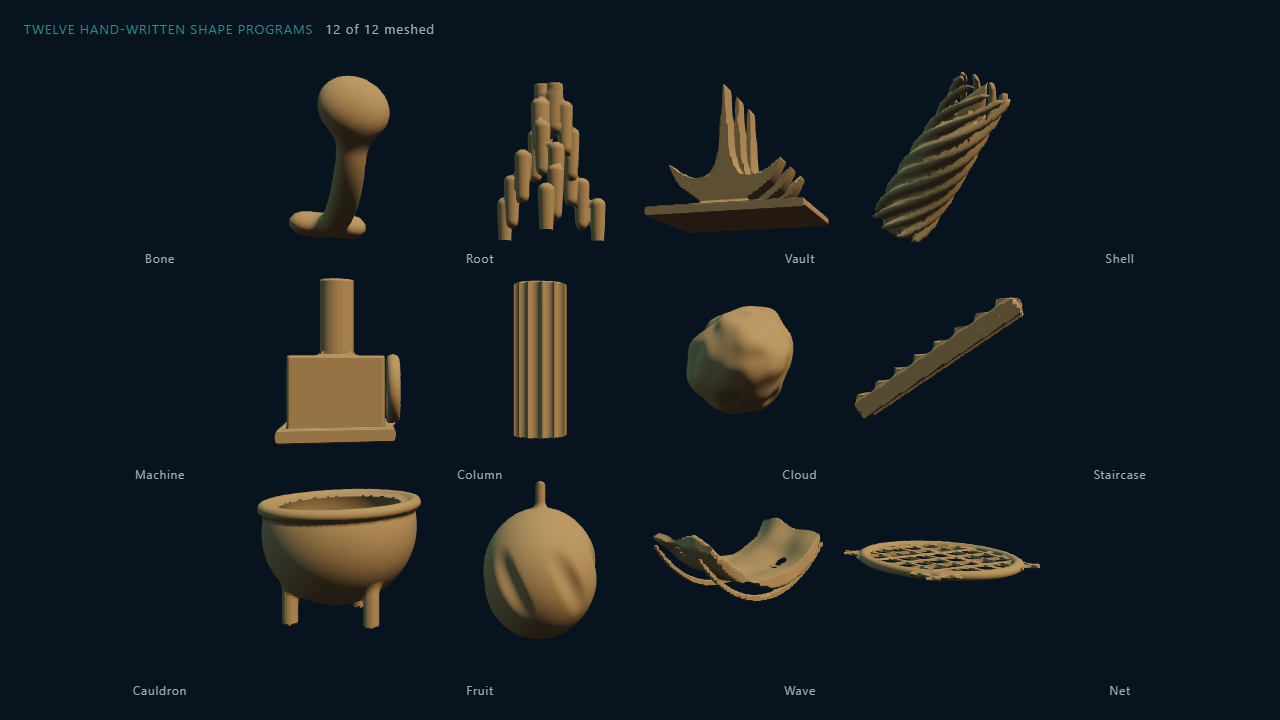
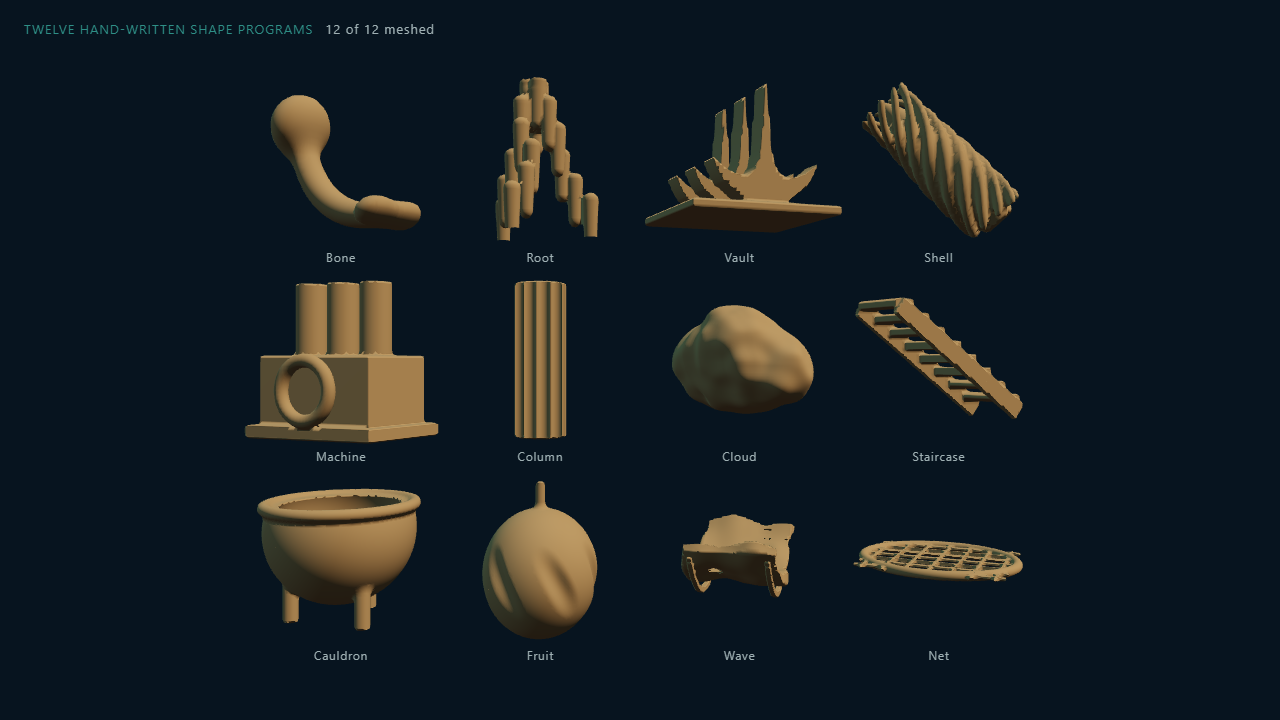
fix(gallery): seat labels on the grid the camera actually draws
Popisky stály na ctyrech dilech sirky okna (320 px), kusy 199 px od sebe:
kost vysla bliz k popisku Root nez ke svemu. Naměřeno 139,8-150,9 px u
krajnich sloupcu, tedy tri ctvrtiny bunky. Index bunky pritom sedel, takze
obe dosavadni aserce byly zelene - vada byla jen v pixelech.

Obdelnik mrizky se ted promita tou kamerou, do ktere se kresli. Novy test
prideli kazdy dost svetly pixel platna nejblizsimu popisku a soudi teziste
po sloupcich (Voronoi nad dvanacti body), takze nezna ani rozteč bunek ani
kameru. Po oprave je nejvetsi posun 22,3 px proti toleranci 45.

Cisla v gallery-page-cost.json se prepsala novym merenim teze stranky.

diff --git a/src/app/gallery/page.tsx b/src/app/gallery/page.tsx
@@ -30,9 +30,9 @@
  * mimo hashovaný stav a mimo replay cestu, přesně jak `CLAUDE.md` žádá.
  */
 
-import { Canvas, useFrame } from '@react-three/fiber';
+import { Canvas, useFrame, useThree } from '@react-three/fiber';
 import { useCallback, useEffect, useMemo, useRef, useState } from 'react';
-import { BufferAttribute, BufferGeometry, type Group } from 'three';
+import { BufferAttribute, BufferGeometry, Vector3, type Group } from 'three';
 
 import { UI_TOKENS } from '@/kit';
 import { createMeshClient, type MeshResult } from '@/shape/mesh-client';
@@ -47,6 +47,20 @@ const COLUMNS = 4;
 
 /** Rozteč buněk. Tvar se do buňky zmenší, takže je to i jeho největší rozměr. */
 const CELL = 3.4;
+
+/** Řádků v mřížce. Dvanáct kusů na čtyřech sloupcích dá tři. */
+const ROWS = Math.ceil(GALLERY.length / COLUMNS);
+
+/**
+ * O kolik pixelů popisky spadnou pod svou buňku.
+ *
+ * Tvar se do buňky zmenší na 0,78 její strany, jenže zmenšuje se podle
+ * **největšího** rozměru — kdo je široký a nízký jako `machine`, sáhne na
+ * spodní hranu buňky téměř celou výškou a popisek se mu opře o podstavec.
+ * Deset pixelů je mezera, ne posun: vodorovné sazení, o které bráně jde,
+ * se tím nemění.
+ */
+const LABEL_DROP = 10;
 
 /** Otáček za vteřinu. Pomalu — brána se soudí okem, ne stopkami. */
 const TURNS_PER_SECOND = 0.06;
@@ -80,7 +94,6 @@ function placement(mesh: MeshResult, index: number) {
     mesh.bounds.max[2] - mesh.bounds.min[2],
     1e-6,
   );
-  const rows = Math.ceil(GALLERY.length / COLUMNS);
 
   return {
     scale: (CELL * 0.78) / span,
@@ -91,10 +104,71 @@ function placement(mesh: MeshResult, index: number) {
     ] as const,
     cell: [
       (index % COLUMNS) * CELL - ((COLUMNS - 1) * CELL) / 2,
-      ((rows - 1) * CELL) / 2 - Math.floor(index / COLUMNS) * CELL,
+      ((ROWS - 1) * CELL) / 2 - Math.floor(index / COLUMNS) * CELL,
       0,
     ] as const,
   };
+}
+
+/** Obdélník mřížky na obrazovce, v pixelech plátna. */
+interface Frame {
+  readonly left: number;
+  readonly top: number;
+  readonly width: number;
+  readonly height: number;
+}
+
+/**
+ * Kam mřížka kusů doopravdy dopadla — a tím i kam patří popisky.
+ *
+ * **Popisky se do plátna netrefovaly a nikdo si toho nevšiml, protože se to
+ * nedalo poznat z indexu.** HTML mřížka stála na čtyřech dílech šířky okna
+ * (320 px při 1280), kdežto kusy stojí 3,4 světové jednotky od sebe, což při
+ * kameře na `z = 16` a zorném úhlu 42° dělá 199 px. Kost tak vyšla blíž
+ * k popisku `Root` než ke svému vlastnímu — přesně to, co brána K1 potřebuje
+ * mít jisté, protože člověk soudí tvar podle jména pod ním.
+ *
+ * Obdélník se **nedopočítává vedle scény**, ale promítá skutečnou kamerou, do
+ * které se kreslí. Vlastní vzorec pro „kolik pixelů je jednotka" by byl druhá
+ * kopie projekce a rozešel by se s ní při první změně objektivu nebo vzdálenosti.
+ *
+ * Počítá se v `useFrame`, ne v efektu: po změně velikosti okna R3F přepočítá
+ * matici kamery až ve smyčce, takže efekt by promítal ještě tou starou.
+ */
+function LabelFrame({ onFrame }: { readonly onFrame: (frame: Frame) => void }): null {
+  const last = useRef<Frame | null>(null);
+
+  useFrame(({ camera, size }) => {
+    const halfWidth = (COLUMNS * CELL) / 2;
+    const halfHeight = (ROWS * CELL) / 2;
+    const topLeft = new Vector3(-halfWidth, halfHeight, 0).project(camera);
+    const bottomRight = new Vector3(halfWidth, -halfHeight, 0).project(camera);
+    const left = ((topLeft.x + 1) / 2) * size.width;
+    const top = ((1 - topLeft.y) / 2) * size.height;
+    const frame: Frame = {
+      left,
+      top,
+      width: ((bottomRight.x + 1) / 2) * size.width - left,
+      height: ((1 - bottomRight.y) / 2) * size.height - top,
+    };
+
+    // Půl pixelu: pod tím se popisek nemá kam pohnout a přepis stavu by jel
+    // každý snímek.
+    const previous = last.current;
+    if (
+      previous !== null &&
+      Math.abs(previous.left - frame.left) < 0.5 &&
+      Math.abs(previous.top - frame.top) < 0.5 &&
+      Math.abs(previous.width - frame.width) < 0.5 &&
+      Math.abs(previous.height - frame.height) < 0.5
+    ) {
+      return;
+    }
+    last.current = frame;
+    onFrame(frame);
+  });
+
+  return null;
 }
 
 function Piece({
@@ -155,6 +229,11 @@ export default function GalleryPage(): React.JSX.Element {
   const [placed, setPlaced] = useState<readonly string[]>([]);
   /** Kolik tvarů vynechalo `?skip=`. Bez toho by `done` nikdy nenastalo. */
   const [skipped, setSkipped] = useState(0);
+  /** Kam mřížka dopadla. Do prvního snímku se popisky nekreslí — je jasnější
+      žádný popisek než popisek na odhadnutém místě. */
+  const [frame, setFrame] = useState<Frame | null>(null);
+
+  const onFrame = useCallback((next: Frame) => setFrame(next), []);
 
   const onPlaced = useCallback((shapeId: string, cell: number) => {
     setPlaced((current) => [...current, `${shapeId}:${cell}`]);
@@ -244,10 +323,15 @@ export default function GalleryPage(): React.JSX.Element {
       <Canvas
         data-testid="gallery-canvas"
         shadows={false}
-        gl={{ antialias: true, powerPreference: 'high-performance' }}
+        /* `preserveDrawingBuffer` je tu kvůli bráně, ne kvůli obrazu: bez něj je
+           obsah plátna mimo vykreslovací smyčku nedefinovaný a test, který se ptá
+           „leží ten tvar nad svým popiskem?", by četl prázdno. Je to stránka brány,
+           ne produkt — cena za držený buffer se tu platí jednou a jinde nikde. */
+        gl={{ antialias: true, powerPreference: 'high-performance', preserveDrawingBuffer: true }}
         camera={{ position: [0, 0, 16], fov: 42, near: 0.1, far: 100 }}
       >
         <WorldstreamLighting />
+        <LabelFrame onFrame={onFrame} />
         {meshes.map((mesh) => (
           <Piece
             key={mesh.shapeId}
@@ -277,13 +361,20 @@ export default function GalleryPage(): React.JSX.Element {
         </span>
       </header>
 
-      {/* Popisky nejsou v 3D: bez `drei` by to znamenalo vlastní atlas písma,
-          a mřížka je pevná, takže HTML mřížka nad plátnem přesně sedne. */}
+      {/* Popisky nejsou v 3D: bez `drei` by to znamenalo vlastní atlas písma.
+          Mřížka je pevná, ale **pevná ve světě, ne v pixelech** — kolik z okna
+          zabere, rozhoduje kamera. HTML mřížka proto sedí na obdélníku, který
+          promítla ta kamera, ne na čtyřech dílech šířky okna. */}
       <ul
         aria-label="Shape names"
+        data-testid="gallery-labels"
         style={{
           position: 'absolute',
-          inset: '3.5rem 0 1rem',
+          left: frame === null ? 0 : `${frame.left}px`,
+          top: frame === null ? 0 : `${frame.top + LABEL_DROP}px`,
+          width: frame === null ? 0 : `${frame.width}px`,
+          height: frame === null ? 0 : `${frame.height}px`,
+          visibility: frame === null ? 'hidden' : 'visible',
           display: 'grid',
           gridTemplateColumns: `repeat(${COLUMNS}, 1fr)`,
           gridAutoRows: '1fr',

diff --git a/e2e/gallery.spec.ts b/e2e/gallery.spec.ts
@@ -36,6 +36,95 @@ const PAGE_COST_PATH = join('evals', 'shape', 'gallery-page-cost.json');
 
 const QUARTER_TURN_MS = 4_170;
 
+/**
+ * Nejnižší jas, od kterého se pixel počítá za hlínu. Pozadí je `pelagic`
+ * (#07141f, jas 18), nejtmavší odvrácená stěna tvaru je pořád nad 50.
+ */
+const INK_LUMINANCE = 70;
+
+/**
+ * Kolik pixelů smí být mezi těžištěm hlíny a středem popisku. Buňka je při
+ * 1280×720 široká 199 px, takže čtvrtina buňky je hranice, za kterou už tvar
+ * čte pod cizím jménem. Tvary nejsou souměrné a otáčejí se, takže pár desítek
+ * pixelů je vlastní pohyb tvaru, ne posun mřížky.
+ */
+const INK_TOLERANCE = 45;
+
+/** Pod tolika pixely hlíny se buňka nesoudí — znamená to, že tam tvar není. */
+const INK_MINIMUM = 400;
+
+/**
+ * Kde leží hlína proti popiskům — odečtené z plátna, ne dopočítané z rozvržení.
+ *
+ * Každý dost světlý pixel se přidělí **nejbližšímu popisku** a spočítá se
+ * těžiště po sloupcích. Je to Voronoi nad dvanácti body, takže test nezná ani
+ * rozteč buněk, ani kameru: ptá se přesně na to, co se ptá člověk v bráně K1 —
+ * *je ten tvar, co vidím, pod svým vlastním jménem?* Kus posunutý k sousedovi
+ * spadne do sousedovy buňky a těžiště se hne o desítky pixelů.
+ */
+async function measureInk(page: import('@playwright/test').Page) {
+  return page.evaluate((threshold) => {
+    const canvas = document.querySelector('canvas');
+    if (canvas === null) throw new Error('gallery has no canvas');
+    const frame = canvas.getBoundingClientRect();
+
+    const labels = [...document.querySelectorAll('[data-testid^="gallery-label-"]')].map((node) => {
+      const box = node.getBoundingClientRect();
+      return {
+        id: (node.getAttribute('data-testid') ?? '').replace('gallery-label-', ''),
+        x: box.left + box.width / 2 - frame.left,
+        y: box.top + box.height / 2 - frame.top,
+      };
+    });
+
+    const copy = document.createElement('canvas');
+    copy.width = canvas.width;
+    copy.height = canvas.height;
+    const context = copy.getContext('2d');
+    if (context === null) throw new Error('no 2d context');
+    context.drawImage(canvas, 0, 0);
+    const image = context.getImageData(0, 0, copy.width, copy.height);
+
+    // Plátno má vlastní rozlišení (dpr), popisky leží v CSS pixelech.
+    const scaleX = frame.width / copy.width;
+    const scaleY = frame.height / copy.height;
+
+    const sums = labels.map(() => ({ x: 0, count: 0 }));
+    for (let y = 0; y < copy.height; y += 1) {
+      for (let x = 0; x < copy.width; x += 1) {
+        const at = (y * copy.width + x) * 4;
+        const luminance =
+          0.2126 * image.data[at] + 0.7152 * image.data[at + 1] + 0.0722 * image.data[at + 2];
+        if (luminance < threshold) continue;
+        const cssX = x * scaleX;
+        const cssY = y * scaleY;
+        let best = 0;
+        let bestDistance = Number.POSITIVE_INFINITY;
+        for (let index = 0; index < labels.length; index += 1) {
+          const dx = labels[index].x - cssX;
+          const dy = labels[index].y - cssY;
+          const distance = dx * dx + dy * dy;
+          if (distance < bestDistance) {
+            bestDistance = distance;
+            best = index;
+          }
+        }
+        sums[best].x += cssX;
+        sums[best].count += 1;
+      }
+    }
+
+    return labels.map((label, index) => ({
+      id: label.id,
+      labelX: label.x,
+      inkX: sums[index].count === 0 ? -1 : sums[index].x / sums[index].count,
+      pixels: sums[index].count,
+    }));
+  }, INK_LUMINANCE);
+}
+
+
+
 test('every meshed shape sits in the cell its own label sits in', async ({ page }) => {
   test.setTimeout(240_000);
 
@@ -96,9 +185,42 @@ test('every meshed shape sits in the cell its own label sits in', async ({ page 
     expect(GALLERY_IDS[Number(cell)]).toBe(id);
   }
 
+  // Odečet hlíny jede **uvnitř téhle smyčky**, ne ve vlastním testu: jedno
+  // načtení galerie stojí meshování dvanácti tvarů, a čtvrtiny otáčky jsou
+  // přesně to, co je u posunutého popisku potřeba proměřit. Tvar se otáčí, takže
+  // se soudí **nejhorší** ze čtyř odečtů, ne první.
+  const worst = new Map<string, { labelX: number; inkX: number; pixels: number }>();
+
   for (let quarter = 0; quarter < 4; quarter += 1) {
     await page.screenshot({ path: `docs/gallery-${quarter * 90}.png` });
+
+    for (const cell of await measureInk(page)) {
+      const drift = Math.abs(cell.inkX - cell.labelX);
+      const held = worst.get(cell.id);
+      if (held === undefined || drift > Math.abs(held.inkX - held.labelX)) {
+        worst.set(cell.id, { labelX: cell.labelX, inkX: cell.inkX, pixels: cell.pixels });
+      }
+    }
+
     if (quarter < 3) await page.waitForTimeout(QUARTER_TURN_MS);
+  }
+
+  for (const [id, cell] of worst) {
+    console.log(
+      `[gallery] ${id}: label x=${cell.labelX.toFixed(1)} ink x=${cell.inkX.toFixed(1)} ` +
+        `drift=${Math.abs(cell.inkX - cell.labelX).toFixed(1)} px=${cell.pixels}`,
+    );
+  }
+
+  // Vynechané tvary nemají co měřit — jejich buňka je prázdná schválně.
+  for (const id of placed.map((item) => item.split(':')[0])) {
+    const cell = worst.get(id);
+    expect(cell, `${id} nemá popisek`).toBeDefined();
+    expect(cell!.pixels, `${id}: v buňce popisku není hlína`).toBeGreaterThan(INK_MINIMUM);
+    expect(
+      Math.abs(cell!.inkX - cell!.labelX),
+      `${id}: tvar nesedí nad svým popiskem`,
+    ).toBeLessThan(INK_TOLERANCE);
   }
 });
 
